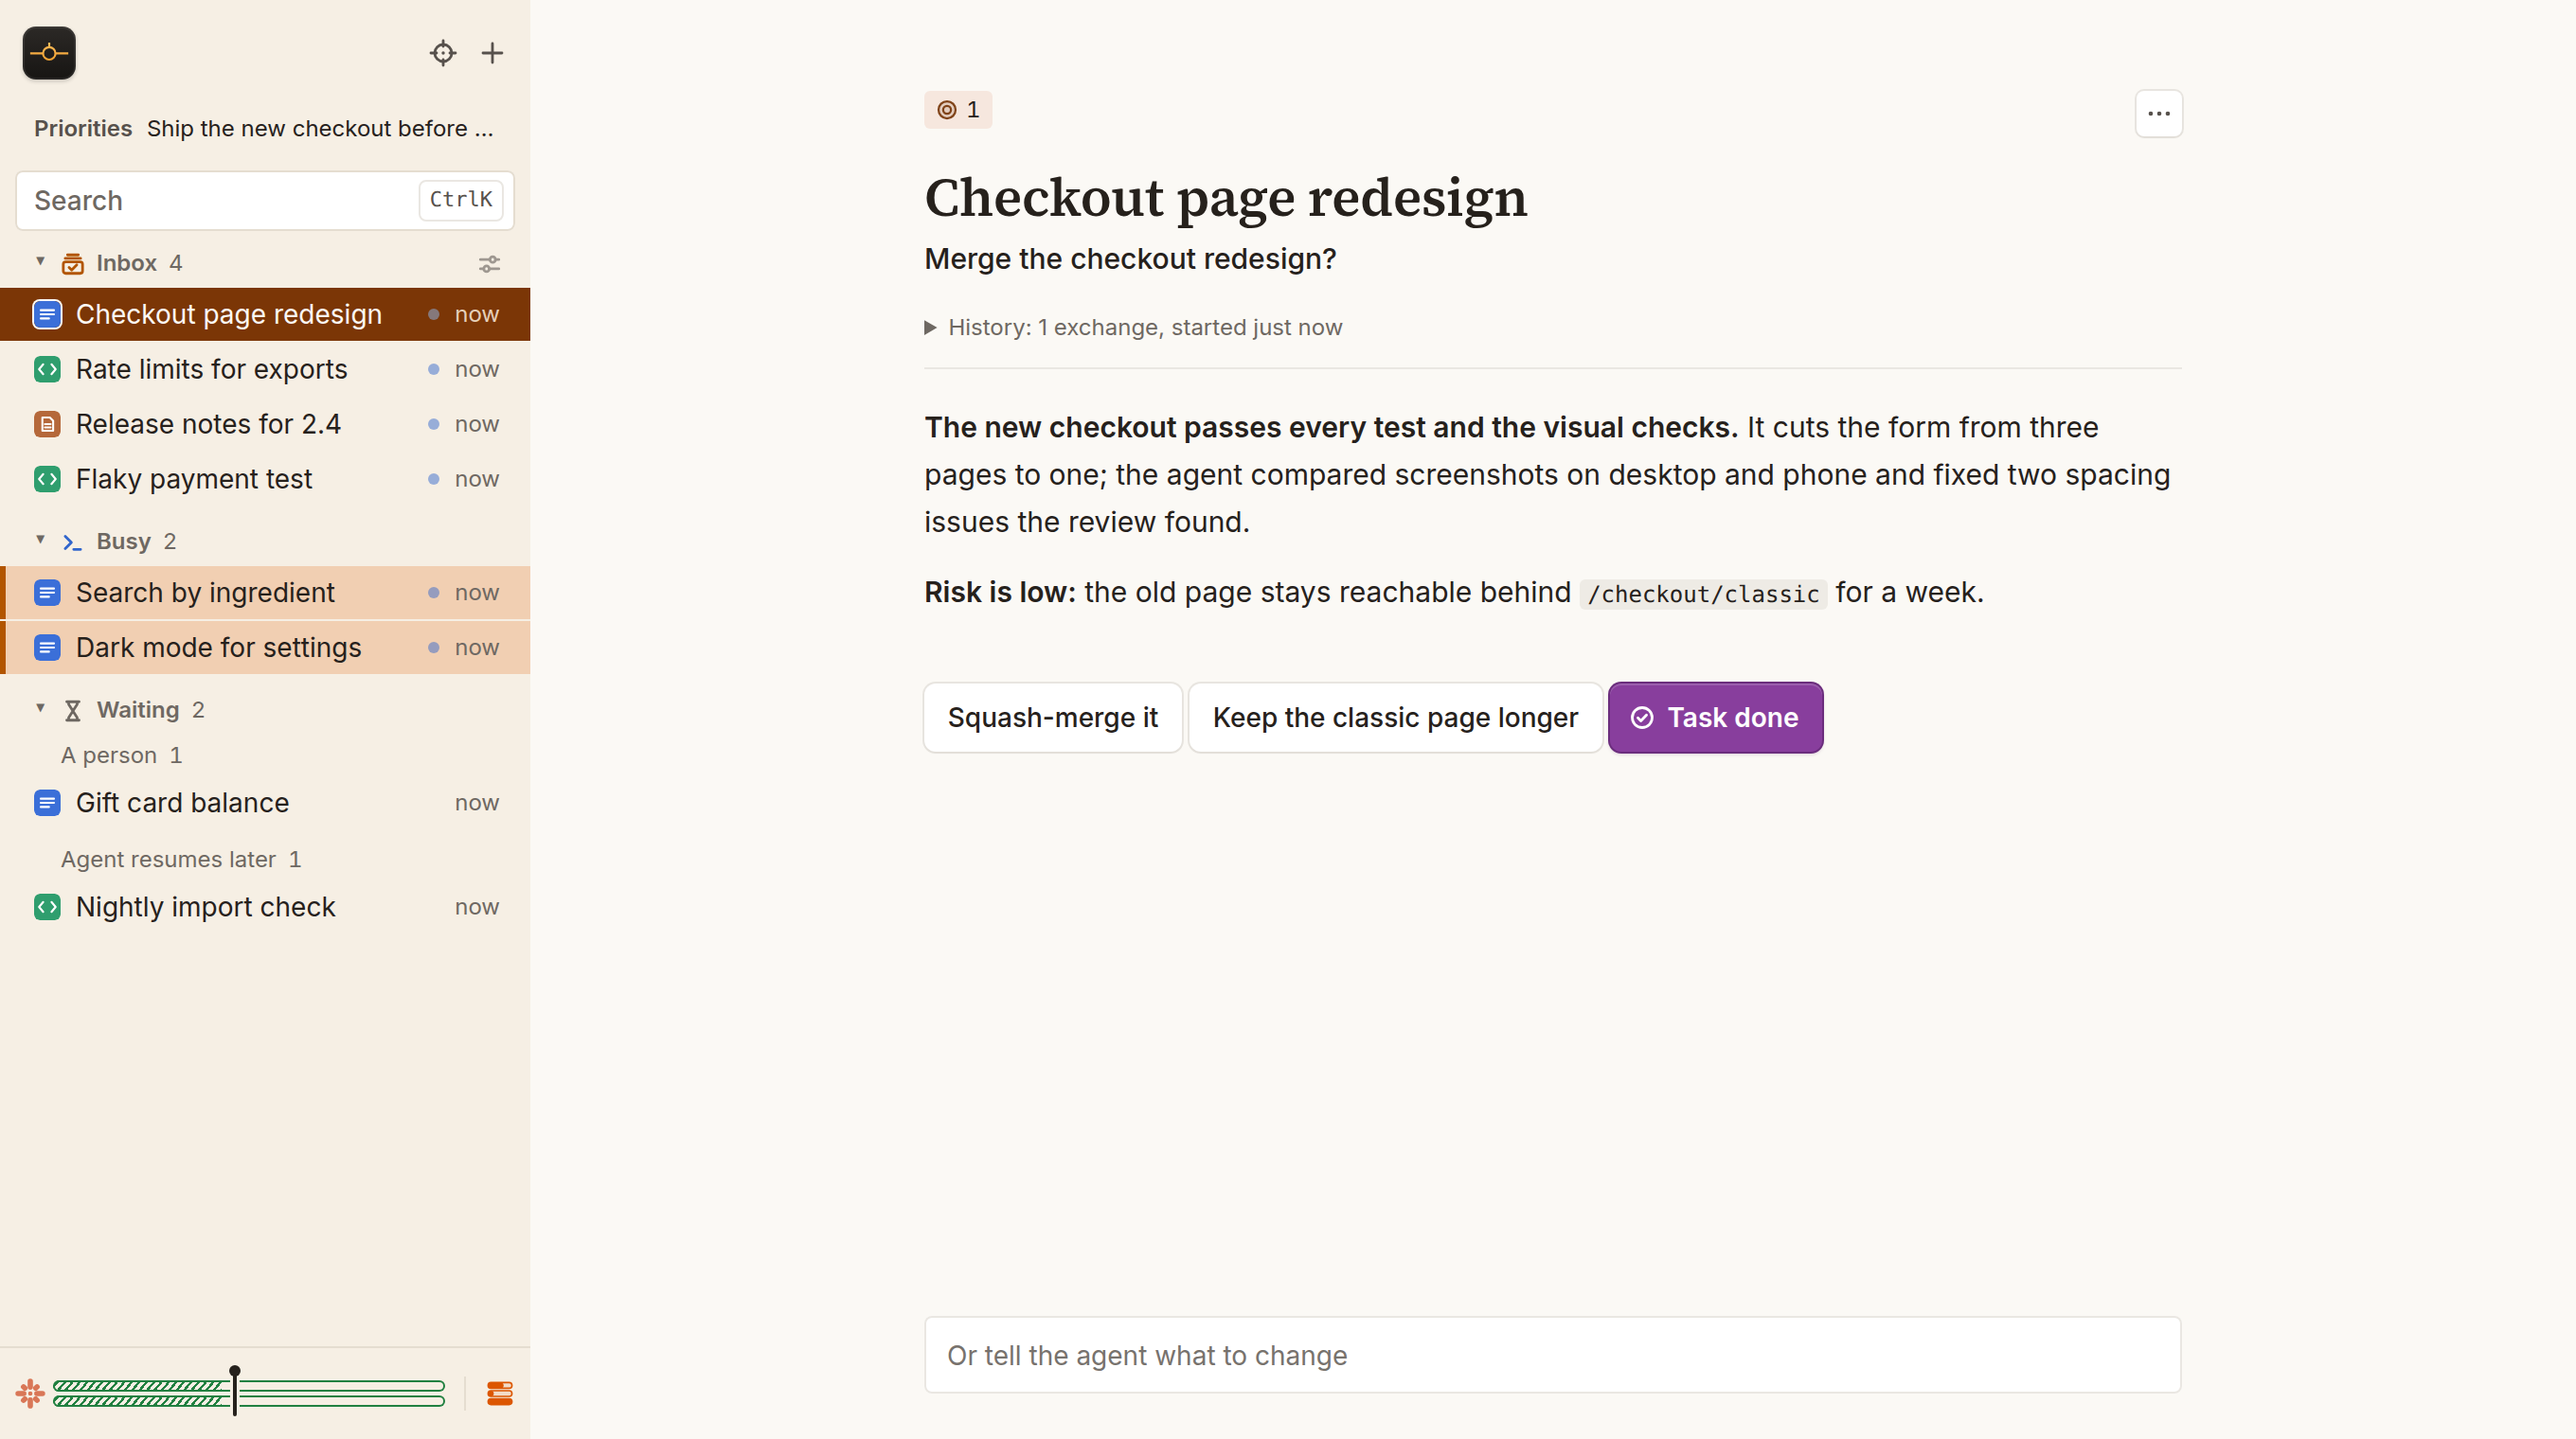
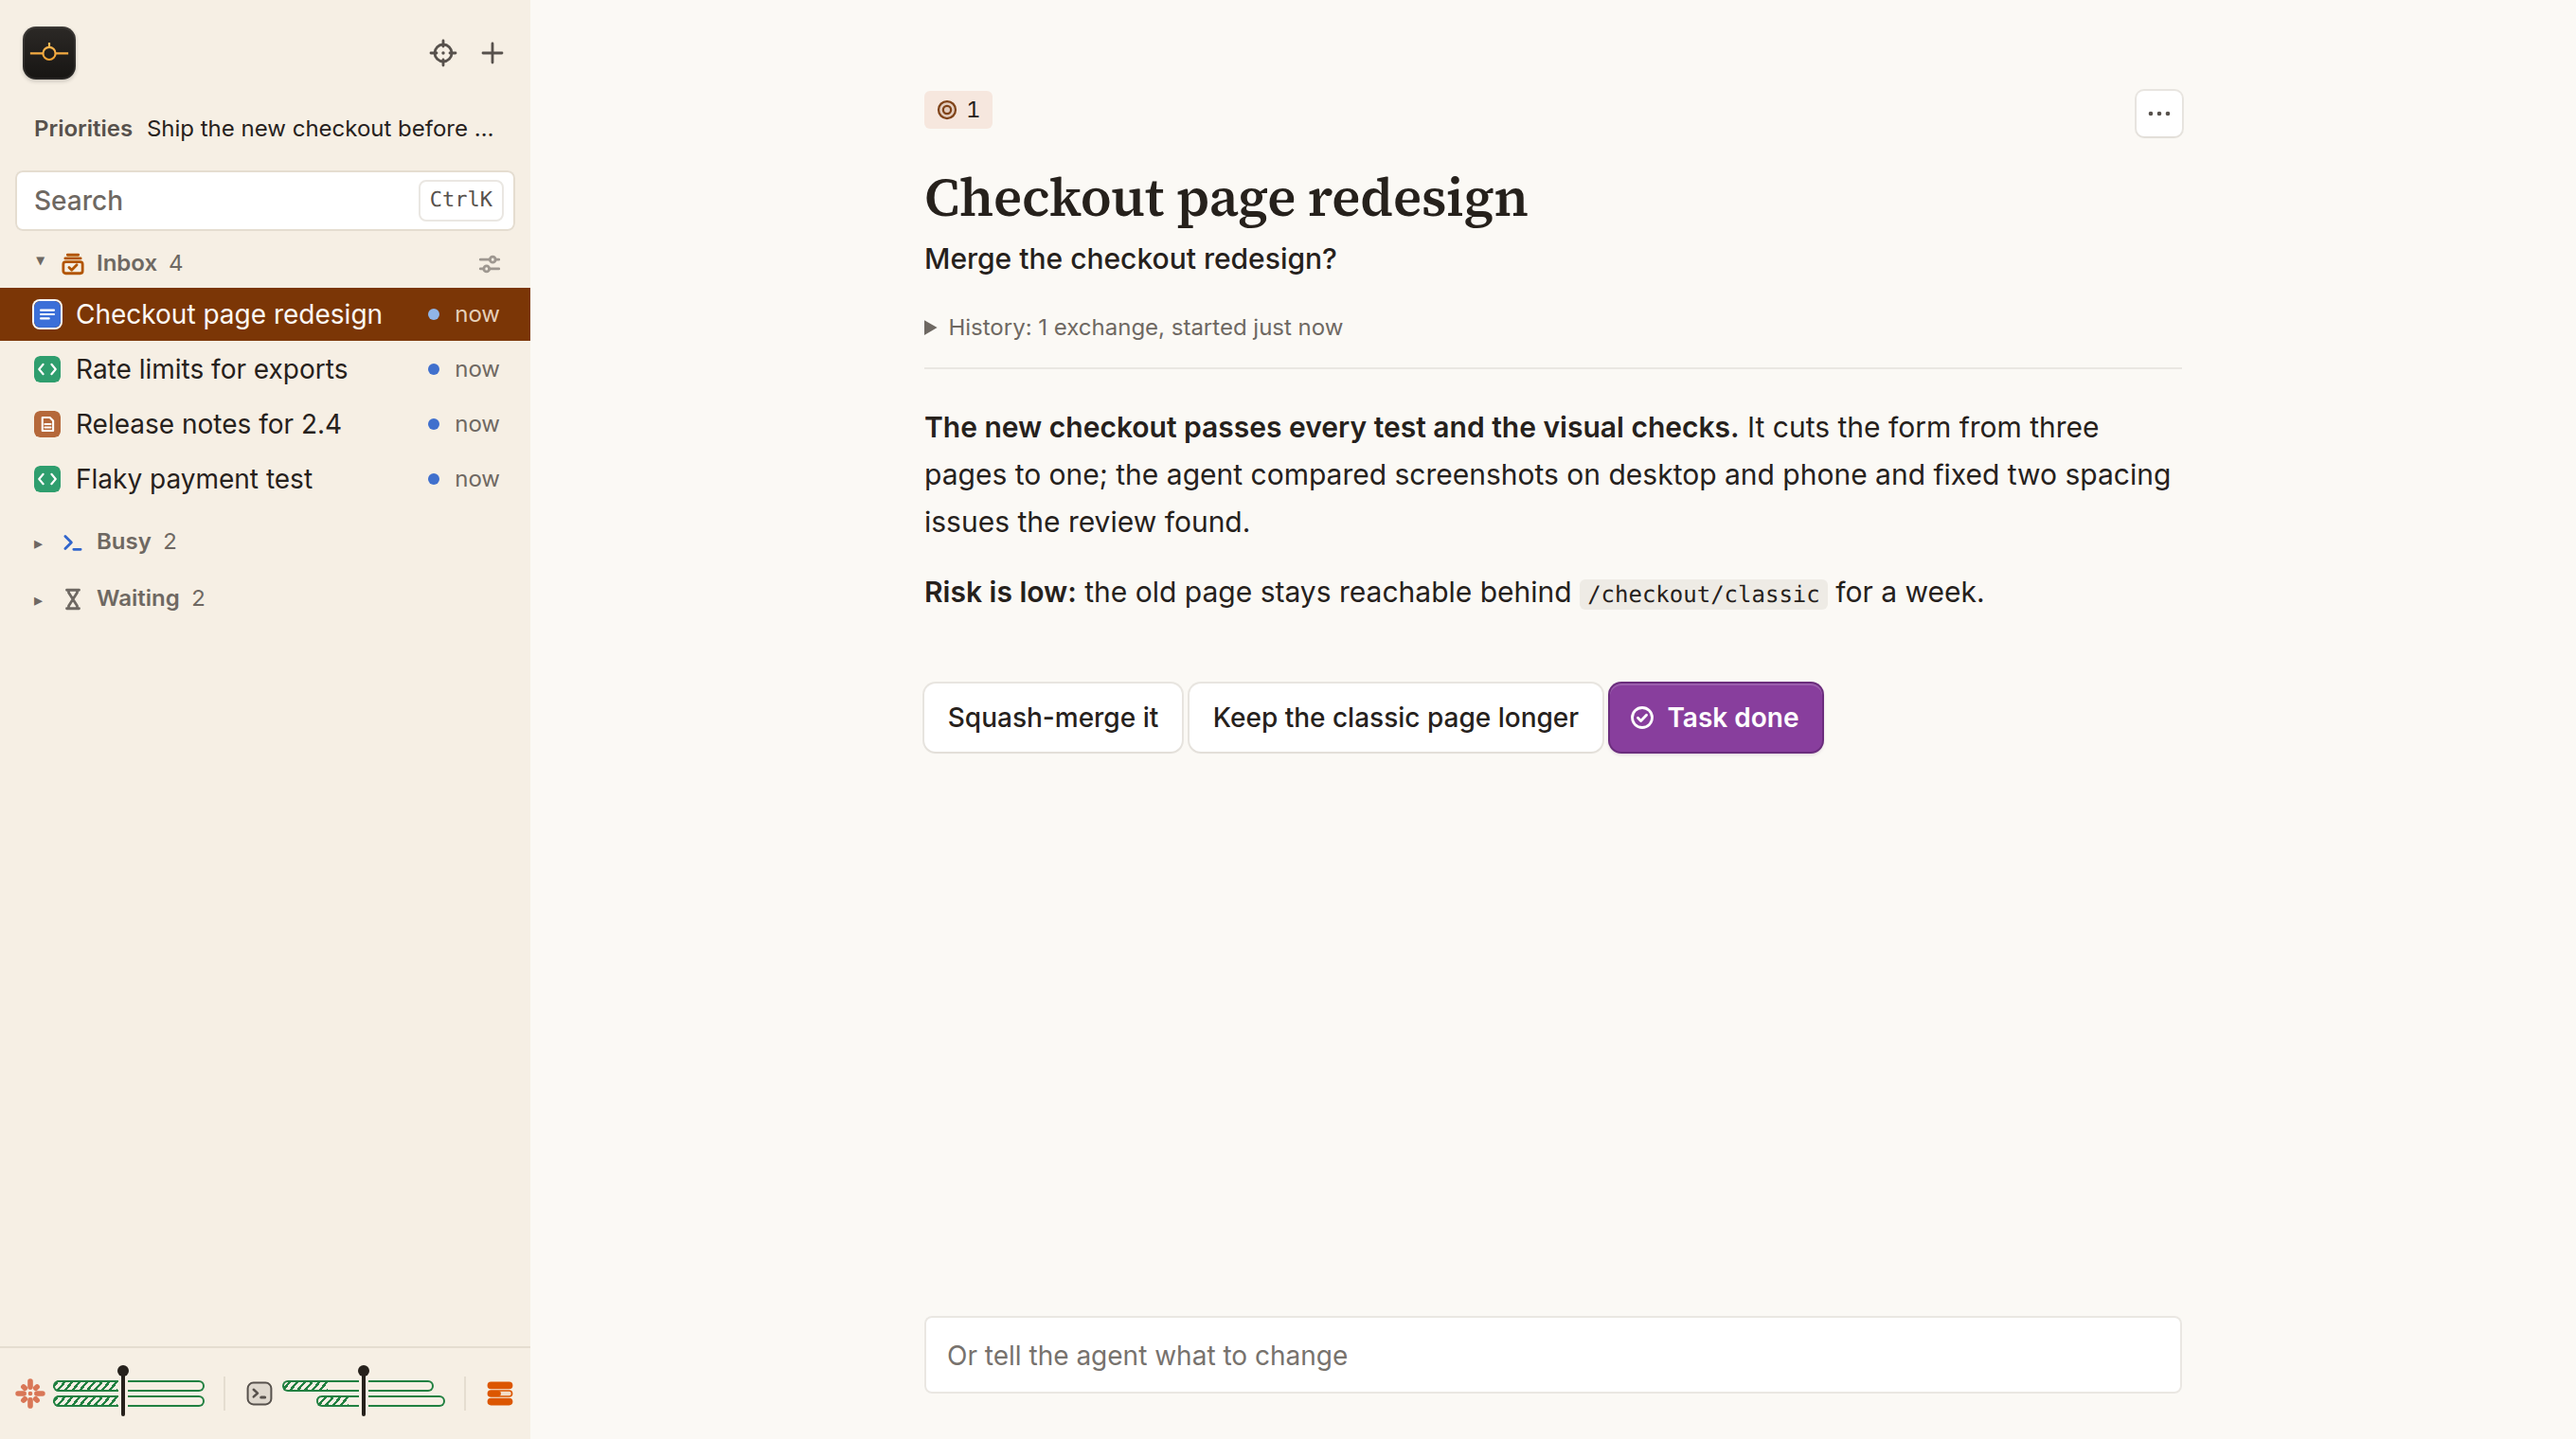
README screenshot: only the inbox open, with Codex accounts

Changed region(s): [[0.0, 0.3711, 0.2188, 0.6493], [0.0312, 0.9586, 0.125, 0.9895]]

diff --git a/README.md b/README.md
@@ -16,7 +16,7 @@ against them and keeps at most four in your inbox, the most important first.
 Everything else sits below the inbox: under Busy while agents work, and under Waiting
 while it depends on a person, a review or a set time.
 
-![The Cockpit inbox: four cards ready for you, two tasks busy and two waiting](docs/inbox.png)
+![The Cockpit inbox: four cards ready for you, the Busy and Waiting groups folded below, and usage meters for two Claude and two Codex accounts](docs/inbox.png)
 
 The same list holds GitHub pull requests, Linear tickets and Slack threads beside
 the agent conversations. Agents update it through the `cockpit` command.
